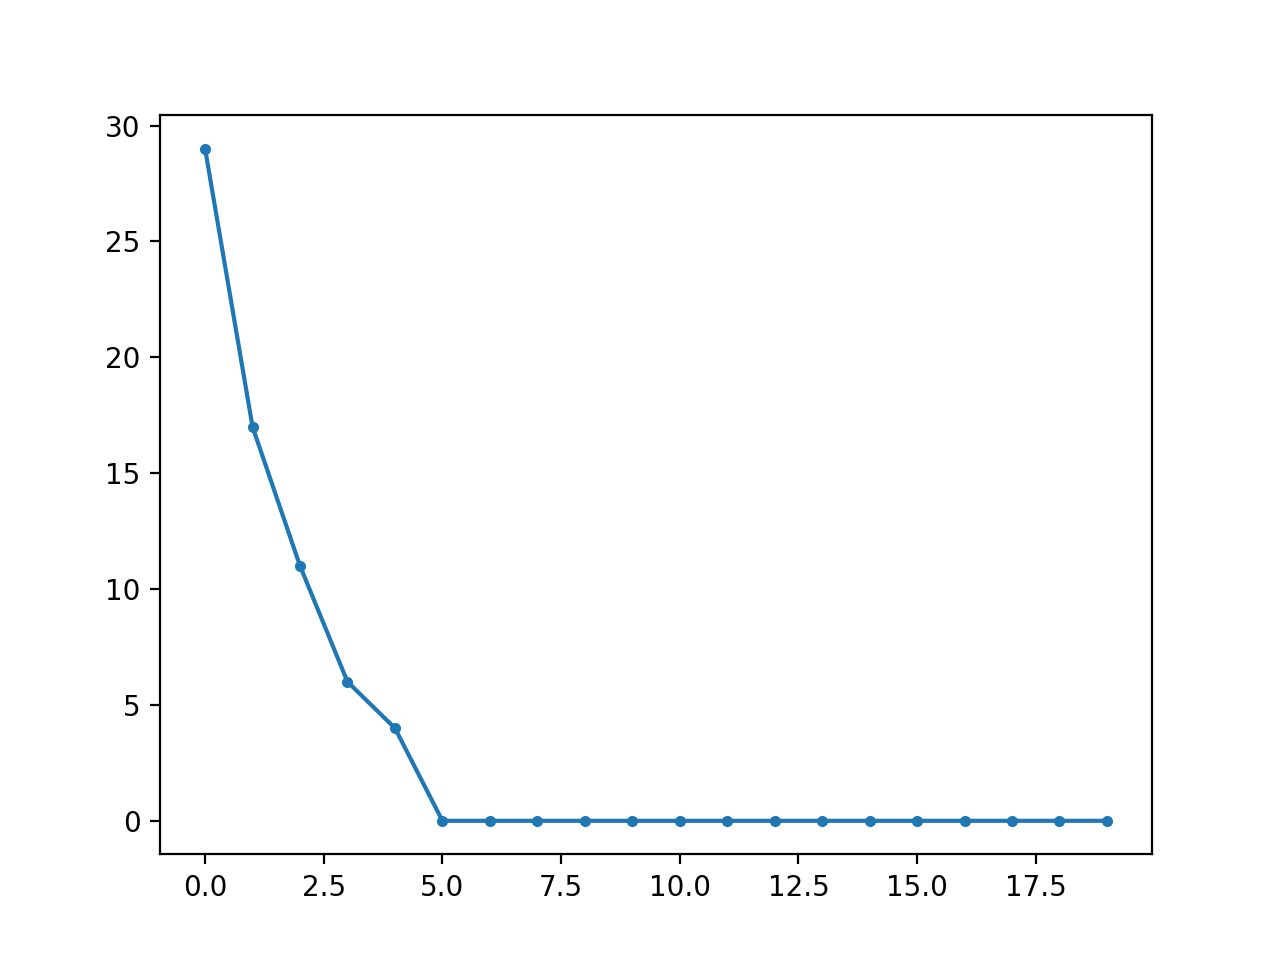
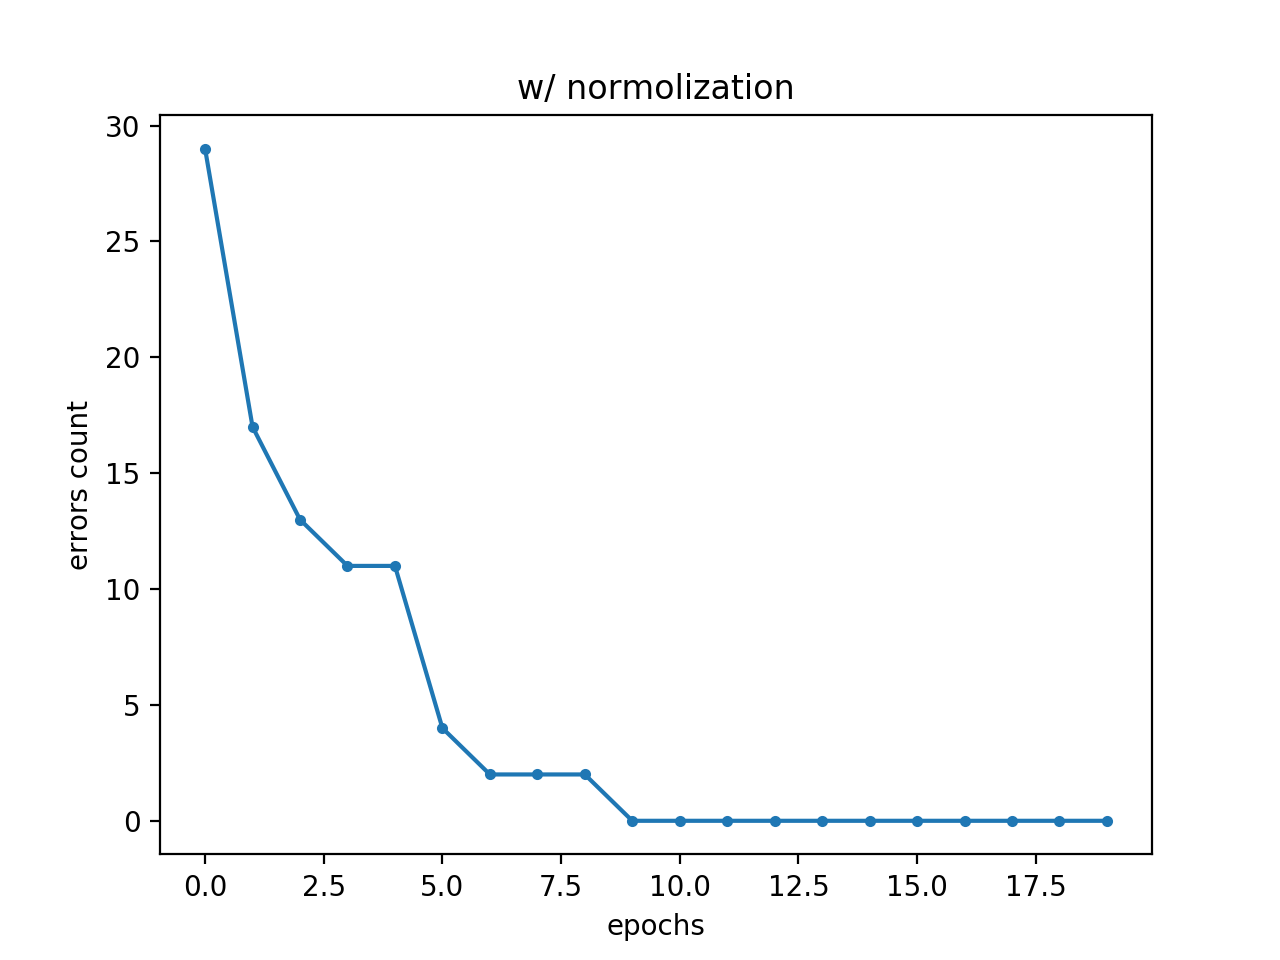
add label
update images

diff --git a/pla.py b/pla.py
@@ -62,4 +62,7 @@ perceptron.training(X, y)
 print(perceptron.weight)
 
 plot.plot(range(0, len(perceptron.errors_list)), perceptron.errors_list, marker='.')
+plot.ylabel('errors count')
+plot.xlabel('epochs')
+plot.title('w/ normolization')
 plot.show()
